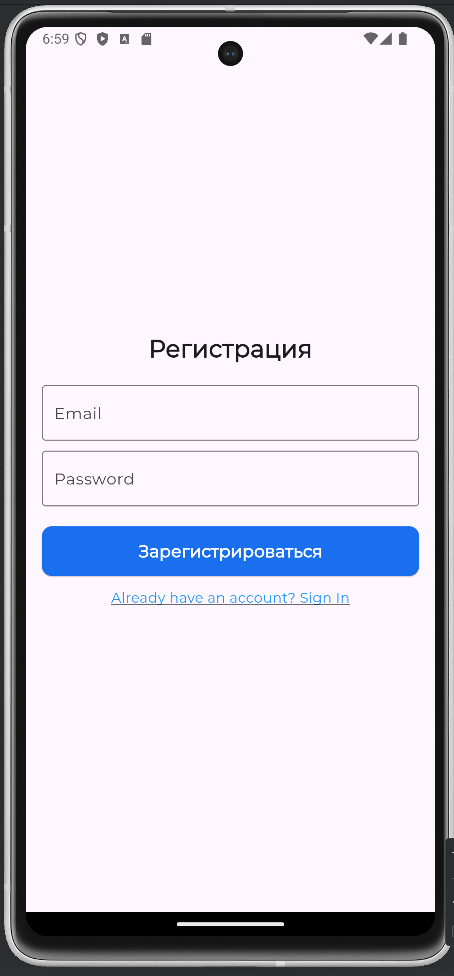
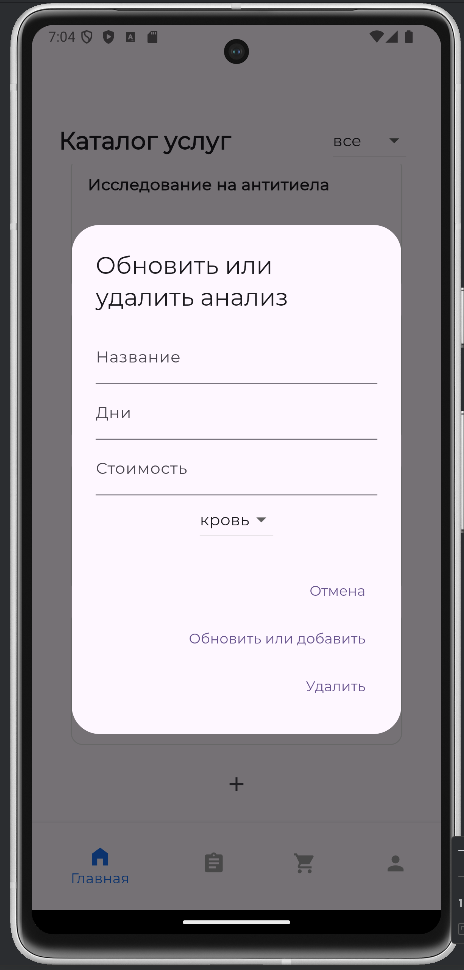
PKS 12

diff --git a/README.md b/README.md
@@ -4,10 +4,14 @@
 
 ## ЭФБО-03-22
 
-## Страница входа
+## Сортировка
 
 ![alt biba](HomePage.png)
 
-## Страница регистрации
+## Добавление
 
 ![alt bibop](BomBomPage.png)
+
+## Редактирование и удаление
+
+![alt bibop](BamBamPage.png)
